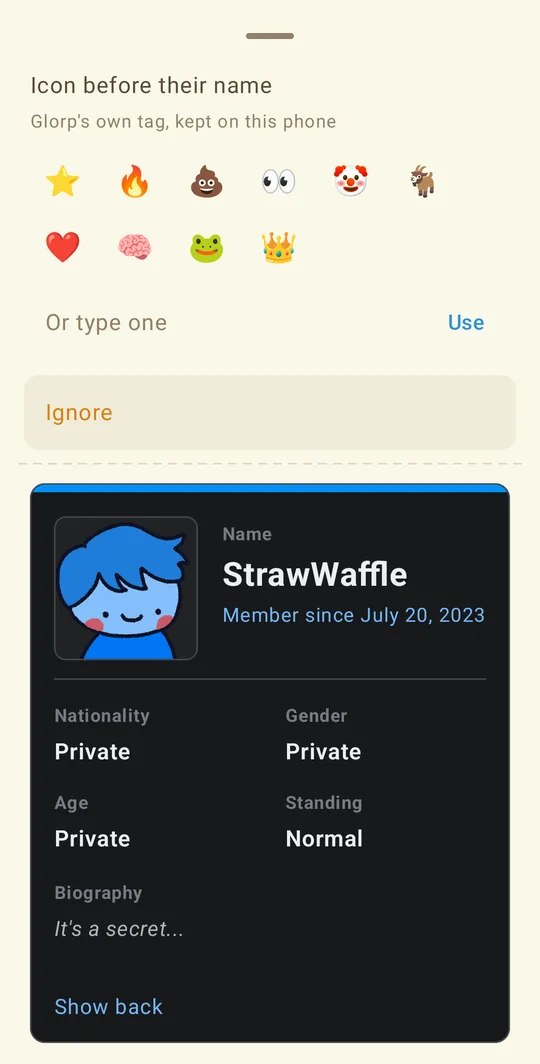
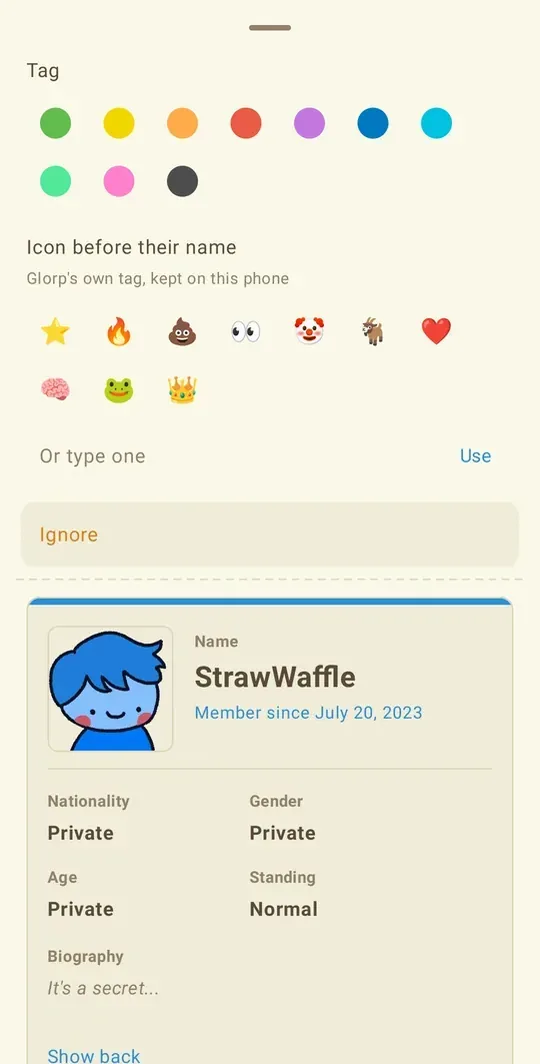
Homepage and README: focusing on a name, the userscript's log search, the card picture retaken

diff --git a/pages/index.html b/pages/index.html
@@ -47,7 +47,7 @@
       <li>Subscriptions, gifted subs, donations, deaths, posts from X and the Vestaboard show up in chat.</li>
       <li>Messages from muted and banned users get censored, and NSFW and NSFL messages can be hidden.</li>
       <li>The site's commands work, <code>/stalk</code>, <code>/mentions</code> and <code>/tag</code> included. The input suggests emotes, names and commands as you type.</li>
-      <li>Tapping a name, the sender's or one in a message, opens that person's menu: mention, whisper, tags and, at the bottom, their membership card with photo, team, tier, standing, biography and, on the back, their signature.</li>
+      <li>Tapping a name, the sender's or one in a message, focuses chat on that person, as on the site. Holding it opens their menu: mention, whisper, tags and, at the bottom, their membership card with photo, team, tier, standing, biography and, on the back, their signature.</li>
       <li>Tapping a link shows its preview. Tapping an emote shows who made it and lets you favourite it. Hold it there to see what it does when pointed at on the site.</li>
       <li>Signed in from a computer, your chat settings follow your account and the site sees what you're watching.</li>
     </ul>
@@ -101,7 +101,7 @@
 
   <section class="panel">
     <h2>On a computer, if you want it</h2>
-    <p>Glorp is a phone app, and the app is where to start. If you also use destiny.gg's chat in a browser, the <a href="userscript/glorp.user.js">Glorp userscript</a> brings a few of Glorp's own things there: the themes, name icons, hiding other streams' chat, your latest mention kept in view, polecat.me's mentions, and your icon and chat's tag in each name's menu. Settings → Sync keeps them the same as in the app.</p>
+    <p>Glorp is a phone app, and the app is where to start. If you also use destiny.gg's chat in a browser, the <a href="userscript/glorp.user.js">Glorp userscript</a> brings a few of Glorp's own things there: the themes, name icons, hiding other streams' chat, your latest mention kept in view, polecat.me's mentions, rustlesearch.dev's log search, and your icon and chat's tag in each name's menu. Settings → Sync keeps them the same as in the app.</p>
     <p class="quiet">It does much less than the app, and it needs <a href="https://violentmonkey.github.io/">Violentmonkey</a> in your browser.</p>
   </section>
 

diff --git a/README.md b/README.md
@@ -45,10 +45,12 @@ the way it does in a browser.
   can be hidden, and mod notices show.
 - The site's commands work, `/stalk`, `/mentions`, `/tag` and `/maxlines`
   included. The input suggests emotes, names and commands as you type.
-- Tapping a name, the sender's or one in a message, opens that person's menu:
-  mention, whisper, their recent messages, highlight, tags, and at the bottom
-  their membership card from their profile page (photo, team, tier, standing
-  and biography, and on the back their signature).
+- Tapping a name, the sender's or one in a message, focuses chat on that
+  person, as on the site: everything not from them or naming them fades until
+  you tap it again. Holding a name opens their menu: mention, whisper, their
+  recent messages, highlight, tags, and at the bottom their membership card
+  from their profile page (photo, team, tier, standing and biography, and on
+  the back their signature).
 - Tapping a link shows its preview. Tapping an emote shows who made it and
   lets you favourite it. Hold the emote there to see what it does when
   pointed at on the site. The eye button's same-stream dimming is there too.
@@ -95,7 +97,8 @@ destiny.gg's chat in a browser, the
 [Glorp userscript](https://strawwaffle.dev/glorp/userscript/glorp.user.js)
 brings a few of Glorp's own things there: the themes, name icons, hiding
 other streams' chat, your latest mention kept in view, polecat.me's mentions,
-and your icon and chat's tag in each name's menu. It does much less than the
+rustlesearch.dev's log search, and your icon and chat's tag in each name's
+menu. It does much less than the
 app and needs Violentmonkey. Hidden phrases, hidden flairs and alert words
 came to Glorp from the d.gg utilities userscript, so on a computer that
 script does them.
